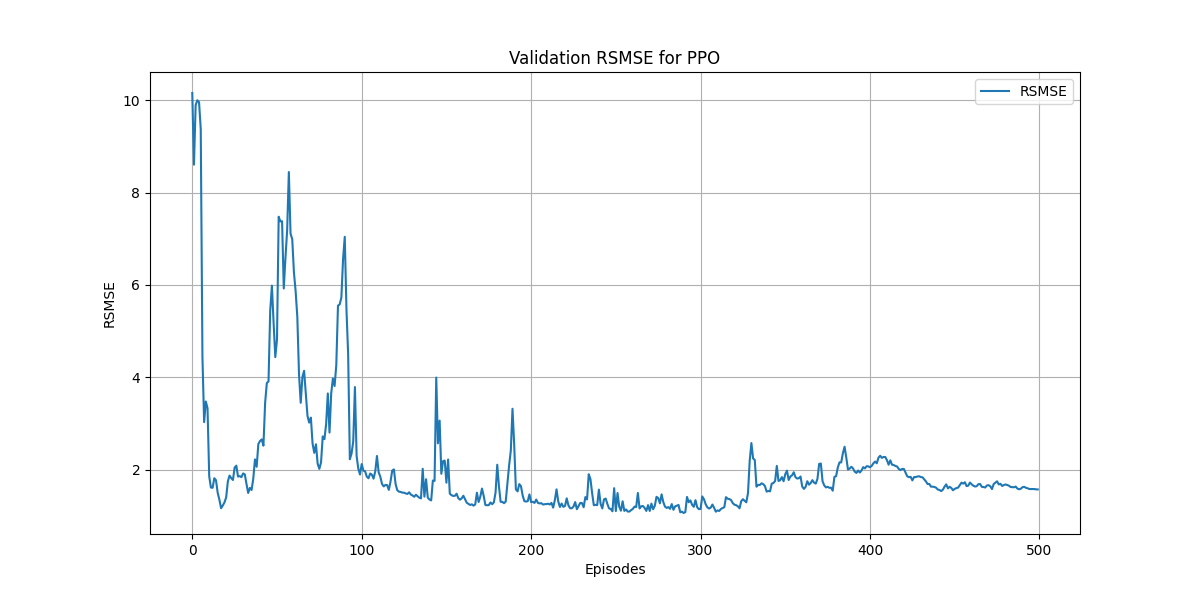
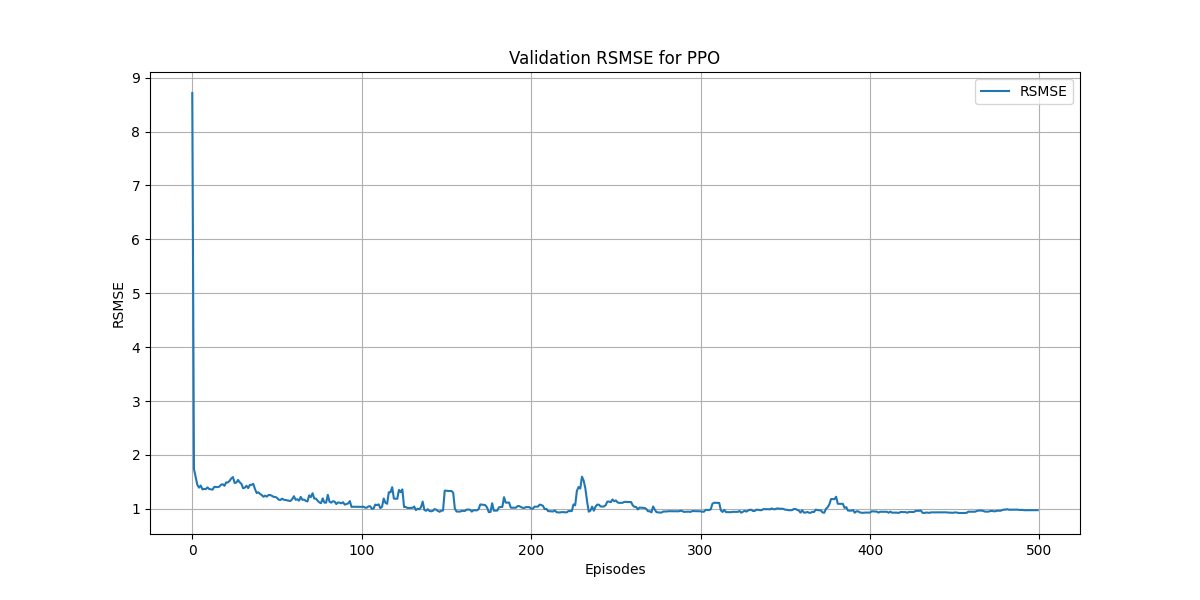
retrained ppo

Changed region(s): [[0.0925, 0.15, 0.8942, 0.87], [0.0617, 0.48, 0.1233, 0.54], [0.0925, 0.15, 0.1233, 0.18]]

diff --git a/option_hedging/Deep_Hedging_Experiments.py b/option_hedging/Deep_Hedging_Experiments.py
@@ -399,9 +399,9 @@ def train_test_dqn(train=False, dueling=False, double=False):
 def train_test_ppo(train=False):
     config={
         "lr": 0.00001,
-        "batch_size": 256,
-        "num_layers": 4,
-        "hidden_size": 64,
+        "batch_size": 128,
+        "num_layers": 2,
+        "hidden_size": 256,
     }
 
     hyperparameter_path = global_path_prefix + "option_hedging/hyperparameters/ppo_hyperparameters/" + time_frame + "/" + str(trans_costs) + "/"
@@ -892,25 +892,25 @@ discretized_actions = np.arange(start=0.0, stop=1.02, step=0.02)
 
 training = True
 
-pg_actions, pg_test_losses = train_test_pg(train=training)
+# pg_actions, pg_test_losses = train_test_pg(train=training)
 
-dqn_actions_indices, dqn_test_losses = train_test_dqn(train=training, dueling=False, double=False)
-dqn_actions = discretized_actions[dqn_actions_indices.astype(int)]
+# dqn_actions_indices, dqn_test_losses = train_test_dqn(train=training, dueling=False, double=False)
+# dqn_actions = discretized_actions[dqn_actions_indices.astype(int)]
 
-double_dqn_actions_indices, double_dqn_test_losses = train_test_dqn(train=training, dueling=False, double=True)
-double_dqn_actions = discretized_actions[double_dqn_actions_indices.astype(int)]
+# double_dqn_actions_indices, double_dqn_test_losses = train_test_dqn(train=training, dueling=False, double=True)
+# double_dqn_actions = discretized_actions[double_dqn_actions_indices.astype(int)]
 
-dueling_dqn_actions_indices, dueling_dqn_test_losses = train_test_dqn(train=training, dueling=True, double=False)
-dueling_dqn_actions = discretized_actions[dueling_dqn_actions_indices.astype(int)]
+# dueling_dqn_actions_indices, dueling_dqn_test_losses = train_test_dqn(train=training, dueling=True, double=False)
+# dueling_dqn_actions = discretized_actions[dueling_dqn_actions_indices.astype(int)]
 
-dueling_double_dqn_actions_indices, dueling_double_dqn_test_losses = train_test_dqn(train=training, dueling=True, double=True)
-dueling_double_dqn_actions = discretized_actions[dueling_double_dqn_actions_indices.astype(int)]
+# dueling_double_dqn_actions_indices, dueling_double_dqn_test_losses = train_test_dqn(train=training, dueling=True, double=True)
+# dueling_double_dqn_actions = discretized_actions[dueling_double_dqn_actions_indices.astype(int)]
 
 ppo_actions, ppo_test_losses = train_test_ppo(train=training)
 
-ddpg_actions, ddpg_test_losses = train_test_ddpg(train=training)
+# ddpg_actions, ddpg_test_losses = train_test_ddpg(train=training)
 
-td_ddpg_actions, td_ddpg_test_losses = train_test_ddpg(train=training, twin_delayed=True)
+# td_ddpg_actions, td_ddpg_test_losses = train_test_ddpg(train=training, twin_delayed=True)
 
 
 
